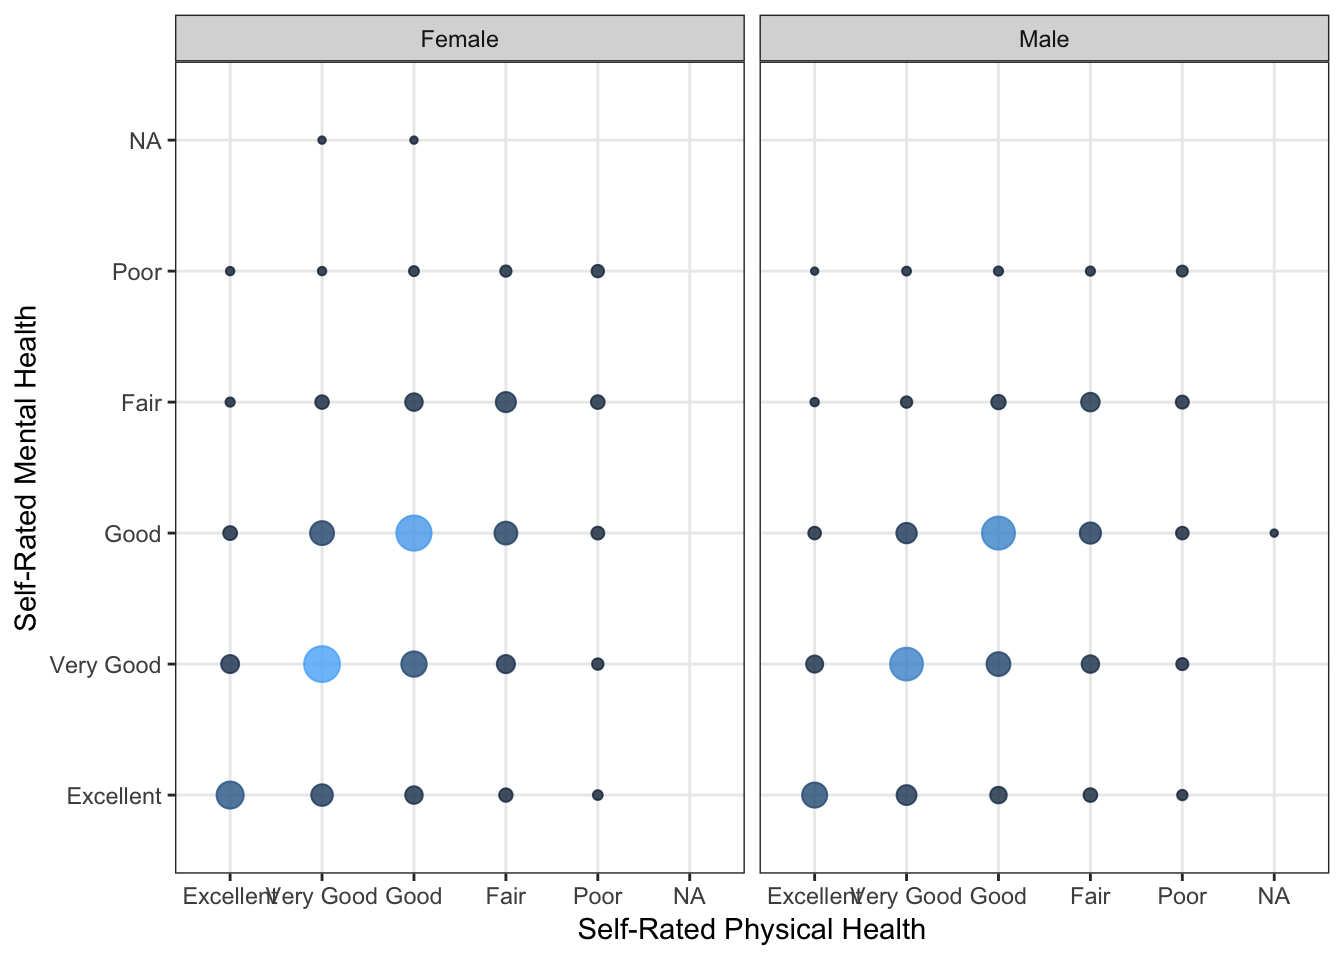
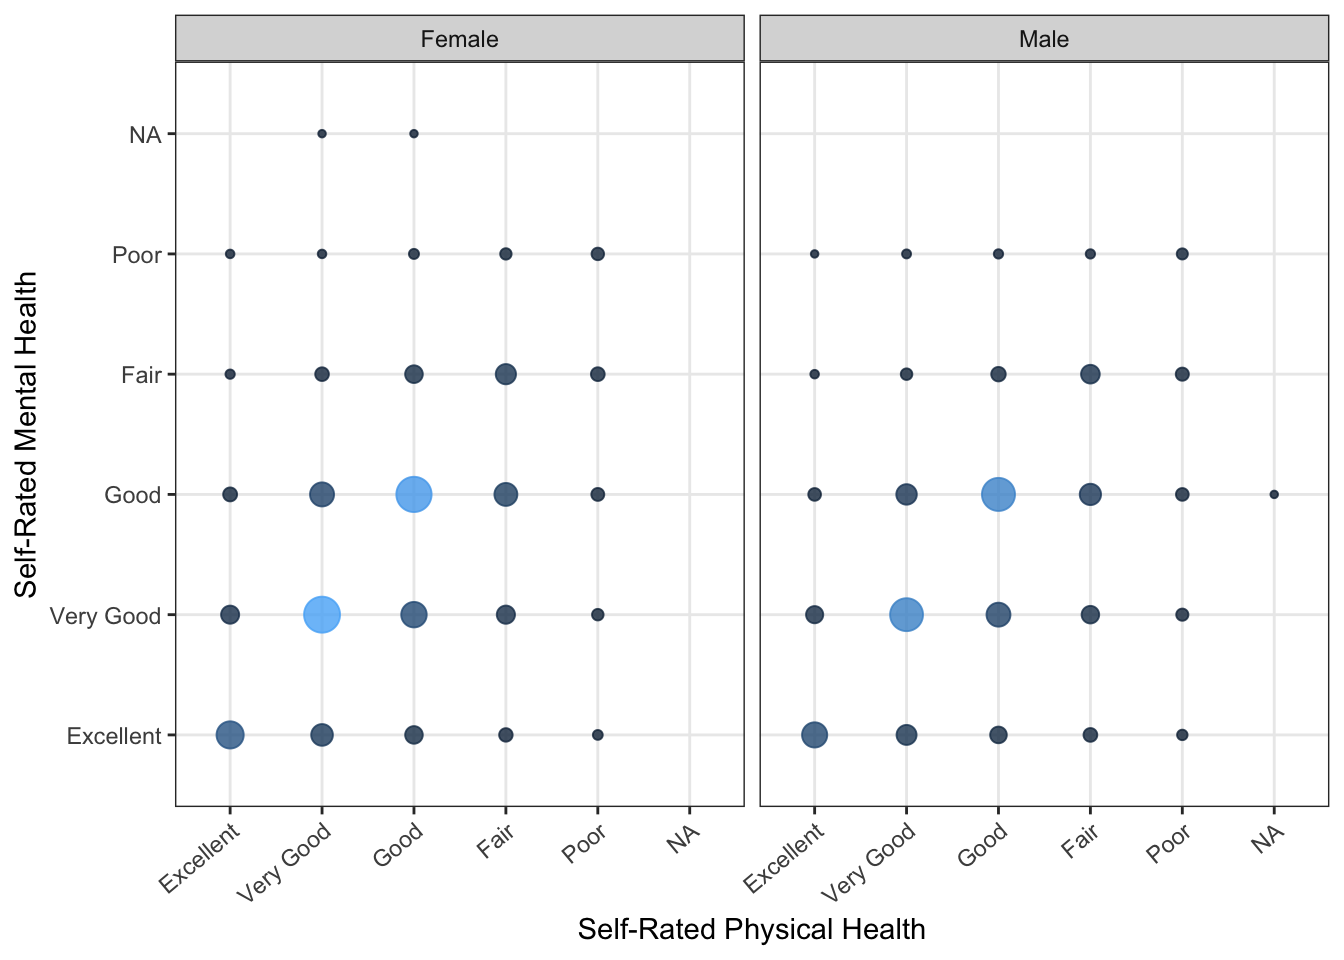
rotate axis

diff --git a/Final_Report.html b/Final_Report.html
@@ -9,9 +9,11 @@
 <meta name="generator" content="pandoc" />
 
 
+<meta name="author" content="Diana Ballesteros Gonzalez (uni: deg2163), Chris Crowe (uni: clc2229), Tanvi Jain (uni: tj2383)" />
 
+<meta name="date" content="2018-11-17" />
 
-<title></title>
+<title>Final Report</title>
 
 <script src="site_libs/jquery-1.11.3/jquery.min.js"></script>
 <meta name="viewport" content="width=device-width, initial-scale=1" />
@@ -22,6 +24,9 @@
 <script src="site_libs/navigation-1.1/tabsets.js"></script>
 <link href="site_libs/highlightjs-9.12.0/default.css" rel="stylesheet" />
 <script src="site_libs/highlightjs-9.12.0/highlight.js"></script>
+<link href="site_libs/font-awesome-5.0.13/css/fa-svg-with-js.css" rel="stylesheet" />
+<script src="site_libs/font-awesome-5.0.13/js/fontawesome-all.min.js"></script>
+<script src="site_libs/font-awesome-5.0.13/js/fa-v4-shims.min.js"></script>
 
 <style type="text/css">code{white-space: pre;}</style>
 <style type="text/css">
@@ -201,6 +206,12 @@ $(document).ready(function () {
      
   </a>
 </li>
+<li>
+  <a href="www.youtube.com">
+    <span class="fa fa-github fa-lg"></span>
+     
+  </a>
+</li>
       </ul>
     </div><!--/.nav-collapse -->
   </div><!--/.container -->
@@ -210,14 +221,13 @@ $(document).ready(function () {
 
 
 
+<h1 class="title toc-ignore">Final Report</h1>
+<h4 class="author"><em>Diana Ballesteros Gonzalez (uni: deg2163), Chris Crowe (uni: clc2229), Tanvi Jain (uni: tj2383)</em></h4>
+<h4 class="date"><em>11/17/2018</em></h4>
 
 </div>
 
 
-<div id="final-report" class="section level1">
-<h1>Final Report</h1>
-<p>Diana Ballesteros Gonzalez (uni: deg2163), Chris Crowe (uni: clc2229), Tanvi Jain (uni: tj2383) 11/17/2018</p>
-</div>
 <div id="analysis-of-a-longitudinal-study-on-aging-conducted-in-ireland" class="section level1">
 <h1>Analysis of a Longitudinal Study on Aging Conducted in Ireland</h1>
 <p>Motivation: This project aims to look at the effect of sociodemographic indicators on mental health among a cohort of Irish residents aged 50+ yrs.</p>
@@ -271,11 +281,9 @@ countplot %&gt;%
   ) +
   facet_grid(~sex) +
   theme_bw() +
-  theme(legend.position = &quot;none&quot;)</code></pre>
-<div class="figure">
-<img src="Final_Report_files/figure-markdown_github/countplot-1.png" />
-
-</div>
+  theme(legend.position = &quot;none&quot;,
+        axis.text.x = element_text(angle = 40, hjust = 1))</code></pre>
+<p><img src="Final_Report_files/figure-html/countplot-1.png" width="672" /></p>
 <pre class="r"><code>wave_1_data = wave_1_data %&gt;% 
   mutate(MHUCLA_LONELINESS_1 = MHUCLA_LONELINESS)
 
@@ -319,10 +327,7 @@ spaghetti %&gt;%
   geom_line() +
   theme_bw() +
   theme(legend.position = &quot;none&quot;)</code></pre>
-<div class="figure">
-<img src="Final_Report_files/figure-markdown_github/spaghetti-1.png" />
-
-</div>
+<p><img src="Final_Report_files/figure-html/spaghetti-1.png" width="672" /></p>
 <pre class="r"><code># ICD-10: bar graph of proportions of each ICD-10 code to determine which ICD-10 diagnosis accounts for the greatest burden of disease in our population. We can potentially facet by sex to see if the burden is different for males and females. 
 bar_graph = 
   wave_3_data %&gt;% 
@@ -371,10 +376,7 @@ bar_graph %&gt;%
   ) + 
   theme_bw() +
   theme(axis.text.x = element_text(angle = 90, size = 7))</code></pre>
-<div class="figure">
-<img src="Final_Report_files/figure-markdown_github/bar_graph-1.png" />
-
-</div>
+<p><img src="Final_Report_files/figure-html/bar_graph-1.png" width="672" /></p>
 <pre class="r"><code>### Baseline 0
 
 baseline_loneliness_0 = wave_1_data %&gt;% 
@@ -598,152 +600,99 @@ baseline_10 = baseline_loneliness_10 %&gt;%
     geom_smooth(se = FALSE) + ylim(0, 10)
 
 (baseline_0 + baseline_1 + baseline_2 + baseline_3 + baseline_4 + baseline_5 + baseline_6 + baseline_7 + baseline_8 + baseline_9)</code></pre>
-<pre><code>## `geom_smooth()` using method = &#39;loess&#39; and formula &#39;y ~ x&#39;
-
-## Warning in simpleLoess(y, x, w, span, degree = degree, parametric =
-## parametric, : pseudoinverse used at 0.99
-
-## Warning in simpleLoess(y, x, w, span, degree = degree, parametric =
-## parametric, : neighborhood radius 2.01
-
-## Warning in simpleLoess(y, x, w, span, degree = degree, parametric =
-## parametric, : reciprocal condition number 5.2454e-17
-
-## Warning in simpleLoess(y, x, w, span, degree = degree, parametric =
-## parametric, : There are other near singularities as well. 4.0401
-
-## `geom_smooth()` using method = &#39;loess&#39; and formula &#39;y ~ x&#39;
-
-## Warning in simpleLoess(y, x, w, span, degree = degree, parametric =
-## parametric, : pseudoinverse used at 0.99
-
-## Warning in simpleLoess(y, x, w, span, degree = degree, parametric =
-## parametric, : neighborhood radius 2.01
-
-## Warning in simpleLoess(y, x, w, span, degree = degree, parametric =
-## parametric, : reciprocal condition number 2.0661e-16
-
-## Warning in simpleLoess(y, x, w, span, degree = degree, parametric =
-## parametric, : There are other near singularities as well. 4.0401
-
-## `geom_smooth()` using method = &#39;loess&#39; and formula &#39;y ~ x&#39;
-
-## Warning in simpleLoess(y, x, w, span, degree = degree, parametric =
-## parametric, : pseudoinverse used at 0.99
-
-## Warning in simpleLoess(y, x, w, span, degree = degree, parametric =
-## parametric, : neighborhood radius 2.01
-
-## Warning in simpleLoess(y, x, w, span, degree = degree, parametric =
-## parametric, : reciprocal condition number 2.1055e-16
-
-## Warning in simpleLoess(y, x, w, span, degree = degree, parametric =
-## parametric, : There are other near singularities as well. 4.0401
-
-## `geom_smooth()` using method = &#39;loess&#39; and formula &#39;y ~ x&#39;
-
-## Warning in simpleLoess(y, x, w, span, degree = degree, parametric =
-## parametric, : pseudoinverse used at 0.99
-
-## Warning in simpleLoess(y, x, w, span, degree = degree, parametric =
-## parametric, : neighborhood radius 2.01
-
-## Warning in simpleLoess(y, x, w, span, degree = degree, parametric =
-## parametric, : reciprocal condition number 1.9961e-16
-
-## Warning in simpleLoess(y, x, w, span, degree = degree, parametric =
-## parametric, : There are other near singularities as well. 4.0401
-
-## `geom_smooth()` using method = &#39;loess&#39; and formula &#39;y ~ x&#39;
-
-## Warning in simpleLoess(y, x, w, span, degree = degree, parametric =
-## parametric, : pseudoinverse used at 0.99
-
-## Warning in simpleLoess(y, x, w, span, degree = degree, parametric =
-## parametric, : neighborhood radius 2.01
-
-## Warning in simpleLoess(y, x, w, span, degree = degree, parametric =
-## parametric, : reciprocal condition number 1.0184e-16
-
-## Warning in simpleLoess(y, x, w, span, degree = degree, parametric =
-## parametric, : There are other near singularities as well. 4.0401
-
-## `geom_smooth()` using method = &#39;loess&#39; and formula &#39;y ~ x&#39;
-
-## Warning in simpleLoess(y, x, w, span, degree = degree, parametric =
-## parametric, : pseudoinverse used at 0.99
-
-## Warning in simpleLoess(y, x, w, span, degree = degree, parametric =
-## parametric, : neighborhood radius 2.01
-
-## Warning in simpleLoess(y, x, w, span, degree = degree, parametric =
-## parametric, : reciprocal condition number 2.3477e-16
-
-## Warning in simpleLoess(y, x, w, span, degree = degree, parametric =
-## parametric, : There are other near singularities as well. 4.0401
-
-## `geom_smooth()` using method = &#39;loess&#39; and formula &#39;y ~ x&#39;
-
-## Warning in simpleLoess(y, x, w, span, degree = degree, parametric =
-## parametric, : pseudoinverse used at 0.99
-
-## Warning in simpleLoess(y, x, w, span, degree = degree, parametric =
-## parametric, : neighborhood radius 2.01
-
-## Warning in simpleLoess(y, x, w, span, degree = degree, parametric =
-## parametric, : reciprocal condition number 1.1404e-16
-
-## Warning in simpleLoess(y, x, w, span, degree = degree, parametric =
-## parametric, : There are other near singularities as well. 4.0401
-
-## `geom_smooth()` using method = &#39;loess&#39; and formula &#39;y ~ x&#39;
-
-## Warning in simpleLoess(y, x, w, span, degree = degree, parametric =
-## parametric, : pseudoinverse used at 0.99
-
-## Warning in simpleLoess(y, x, w, span, degree = degree, parametric =
-## parametric, : neighborhood radius 2.01
-
-## Warning in simpleLoess(y, x, w, span, degree = degree, parametric =
-## parametric, : reciprocal condition number 1.2425e-16
-
-## Warning in simpleLoess(y, x, w, span, degree = degree, parametric =
-## parametric, : There are other near singularities as well. 4.0401
-
-## `geom_smooth()` using method = &#39;loess&#39; and formula &#39;y ~ x&#39;
-
-## Warning in simpleLoess(y, x, w, span, degree = degree, parametric =
-## parametric, : pseudoinverse used at 0.99
-
-## Warning in simpleLoess(y, x, w, span, degree = degree, parametric =
-## parametric, : neighborhood radius 1.01
-
-## Warning in simpleLoess(y, x, w, span, degree = degree, parametric =
-## parametric, : reciprocal condition number 0
-
-## Warning in simpleLoess(y, x, w, span, degree = degree, parametric =
-## parametric, : There are other near singularities as well. 4.0401
-
-## `geom_smooth()` using method = &#39;loess&#39; and formula &#39;y ~ x&#39;
-
-## Warning in simpleLoess(y, x, w, span, degree = degree, parametric =
-## parametric, : span too small. fewer data values than degrees of freedom.
-
-## Warning in simpleLoess(y, x, w, span, degree = degree, parametric =
-## parametric, : pseudoinverse used at 0.99
-
-## Warning in simpleLoess(y, x, w, span, degree = degree, parametric =
-## parametric, : neighborhood radius 1.01
-
-## Warning in simpleLoess(y, x, w, span, degree = degree, parametric =
-## parametric, : reciprocal condition number 0
-
-## Warning in simpleLoess(y, x, w, span, degree = degree, parametric =
+<pre><code>## `geom_smooth()` using method = &#39;loess&#39; and formula &#39;y ~ x&#39;</code></pre>
+<pre><code>## Warning in simpleLoess(y, x, w, span, degree = degree, parametric =
+## parametric, : pseudoinverse used at 0.99</code></pre>
+<pre><code>## Warning in simpleLoess(y, x, w, span, degree = degree, parametric =
+## parametric, : neighborhood radius 2.01</code></pre>
+<pre><code>## Warning in simpleLoess(y, x, w, span, degree = degree, parametric =
+## parametric, : reciprocal condition number 5.2454e-17</code></pre>
+<pre><code>## Warning in simpleLoess(y, x, w, span, degree = degree, parametric =
 ## parametric, : There are other near singularities as well. 4.0401</code></pre>
-<div class="figure">
-<img src="Final_Report_files/figure-markdown_github/unnamed-chunk-1-1.png" />
-
-</div>
+<pre><code>## `geom_smooth()` using method = &#39;loess&#39; and formula &#39;y ~ x&#39;</code></pre>
+<pre><code>## Warning in simpleLoess(y, x, w, span, degree = degree, parametric =
+## parametric, : pseudoinverse used at 0.99</code></pre>
+<pre><code>## Warning in simpleLoess(y, x, w, span, degree = degree, parametric =
+## parametric, : neighborhood radius 2.01</code></pre>
+<pre><code>## Warning in simpleLoess(y, x, w, span, degree = degree, parametric =
+## parametric, : reciprocal condition number 2.0661e-16</code></pre>
+<pre><code>## Warning in simpleLoess(y, x, w, span, degree = degree, parametric =
+## parametric, : There are other near singularities as well. 4.0401</code></pre>
+<pre><code>## `geom_smooth()` using method = &#39;loess&#39; and formula &#39;y ~ x&#39;</code></pre>
+<pre><code>## Warning in simpleLoess(y, x, w, span, degree = degree, parametric =
+## parametric, : pseudoinverse used at 0.99</code></pre>
+<pre><code>## Warning in simpleLoess(y, x, w, span, degree = degree, parametric =
+## parametric, : neighborhood radius 2.01</code></pre>
+<pre><code>## Warning in simpleLoess(y, x, w, span, degree = degree, parametric =
+## parametric, : reciprocal condition number 2.1055e-16</code></pre>
+<pre><code>## Warning in simpleLoess(y, x, w, span, degree = degree, parametric =
+## parametric, : There are other near singularities as well. 4.0401</code></pre>
+<pre><code>## `geom_smooth()` using method = &#39;loess&#39; and formula &#39;y ~ x&#39;</code></pre>
+<pre><code>## Warning in simpleLoess(y, x, w, span, degree = degree, parametric =
+## parametric, : pseudoinverse used at 0.99</code></pre>
+<pre><code>## Warning in simpleLoess(y, x, w, span, degree = degree, parametric =
+## parametric, : neighborhood radius 2.01</code></pre>
+<pre><code>## Warning in simpleLoess(y, x, w, span, degree = degree, parametric =
+## parametric, : reciprocal condition number 1.9961e-16</code></pre>
+<pre><code>## Warning in simpleLoess(y, x, w, span, degree = degree, parametric =
+## parametric, : There are other near singularities as well. 4.0401</code></pre>
+<pre><code>## `geom_smooth()` using method = &#39;loess&#39; and formula &#39;y ~ x&#39;</code></pre>
+<pre><code>## Warning in simpleLoess(y, x, w, span, degree = degree, parametric =
+## parametric, : pseudoinverse used at 0.99</code></pre>
+<pre><code>## Warning in simpleLoess(y, x, w, span, degree = degree, parametric =
+## parametric, : neighborhood radius 2.01</code></pre>
+<pre><code>## Warning in simpleLoess(y, x, w, span, degree = degree, parametric =
+## parametric, : reciprocal condition number 1.0184e-16</code></pre>
+<pre><code>## Warning in simpleLoess(y, x, w, span, degree = degree, parametric =
+## parametric, : There are other near singularities as well. 4.0401</code></pre>
+<pre><code>## `geom_smooth()` using method = &#39;loess&#39; and formula &#39;y ~ x&#39;</code></pre>
+<pre><code>## Warning in simpleLoess(y, x, w, span, degree = degree, parametric =
+## parametric, : pseudoinverse used at 0.99</code></pre>
+<pre><code>## Warning in simpleLoess(y, x, w, span, degree = degree, parametric =
+## parametric, : neighborhood radius 2.01</code></pre>
+<pre><code>## Warning in simpleLoess(y, x, w, span, degree = degree, parametric =
+## parametric, : reciprocal condition number 2.3477e-16</code></pre>
+<pre><code>## Warning in simpleLoess(y, x, w, span, degree = degree, parametric =
+## parametric, : There are other near singularities as well. 4.0401</code></pre>
+<pre><code>## `geom_smooth()` using method = &#39;loess&#39; and formula &#39;y ~ x&#39;</code></pre>
+<pre><code>## Warning in simpleLoess(y, x, w, span, degree = degree, parametric =
+## parametric, : pseudoinverse used at 0.99</code></pre>
+<pre><code>## Warning in simpleLoess(y, x, w, span, degree = degree, parametric =
+## parametric, : neighborhood radius 2.01</code></pre>
+<pre><code>## Warning in simpleLoess(y, x, w, span, degree = degree, parametric =
+## parametric, : reciprocal condition number 1.1404e-16</code></pre>
+<pre><code>## Warning in simpleLoess(y, x, w, span, degree = degree, parametric =
+## parametric, : There are other near singularities as well. 4.0401</code></pre>
+<pre><code>## `geom_smooth()` using method = &#39;loess&#39; and formula &#39;y ~ x&#39;</code></pre>
+<pre><code>## Warning in simpleLoess(y, x, w, span, degree = degree, parametric =
+## parametric, : pseudoinverse used at 0.99</code></pre>
+<pre><code>## Warning in simpleLoess(y, x, w, span, degree = degree, parametric =
+## parametric, : neighborhood radius 2.01</code></pre>
+<pre><code>## Warning in simpleLoess(y, x, w, span, degree = degree, parametric =
+## parametric, : reciprocal condition number 1.2425e-16</code></pre>
+<pre><code>## Warning in simpleLoess(y, x, w, span, degree = degree, parametric =
+## parametric, : There are other near singularities as well. 4.0401</code></pre>
+<pre><code>## `geom_smooth()` using method = &#39;loess&#39; and formula &#39;y ~ x&#39;</code></pre>
+<pre><code>## Warning in simpleLoess(y, x, w, span, degree = degree, parametric =
+## parametric, : pseudoinverse used at 0.99</code></pre>
+<pre><code>## Warning in simpleLoess(y, x, w, span, degree = degree, parametric =
+## parametric, : neighborhood radius 1.01</code></pre>
+<pre><code>## Warning in simpleLoess(y, x, w, span, degree = degree, parametric =
+## parametric, : reciprocal condition number 0</code></pre>
+<pre><code>## Warning in simpleLoess(y, x, w, span, degree = degree, parametric =
+## parametric, : There are other near singularities as well. 4.0401</code></pre>
+<pre><code>## `geom_smooth()` using method = &#39;loess&#39; and formula &#39;y ~ x&#39;</code></pre>
+<pre><code>## Warning in simpleLoess(y, x, w, span, degree = degree, parametric =
+## parametric, : span too small. fewer data values than degrees of freedom.</code></pre>
+<pre><code>## Warning in simpleLoess(y, x, w, span, degree = degree, parametric =
+## parametric, : pseudoinverse used at 0.99</code></pre>
+<pre><code>## Warning in simpleLoess(y, x, w, span, degree = degree, parametric =
+## parametric, : neighborhood radius 1.01</code></pre>
+<pre><code>## Warning in simpleLoess(y, x, w, span, degree = degree, parametric =
+## parametric, : reciprocal condition number 0</code></pre>
+<pre><code>## Warning in simpleLoess(y, x, w, span, degree = degree, parametric =
+## parametric, : There are other near singularities as well. 4.0401</code></pre>
+<p><img src="Final_Report_files/figure-html/unnamed-chunk-1-1.png" width="672" /></p>
 <p>Discussion:</p>
 <p>Graph 1: We anticipated that those who felt they had good physical health would also have good mental health and vice versa. From Graph 1 Self-rated physical and mental health are correlated Most older adults in this population report having good or very good physical and mental health Same for males and females Graph 2: Of all the incident diseases, the top 4 are: Circulatory system diseases Eye diseases Nutritional/metabolic diseases Musculoskeletal system diseases There were no incident cases of: Congenital malformations Ear diseases Infectious diseases Perinatal conditions Skin conditions Graph 3:</p>
 </div>

diff --git a/about.html b/about.html
@@ -204,6 +204,12 @@ $(document).ready(function () {
      
   </a>
 </li>
+<li>
+  <a href="www.youtube.com">
+    <span class="fa fa-github fa-lg"></span>
+     
+  </a>
+</li>
       </ul>
     </div><!--/.nav-collapse -->
   </div><!--/.container -->

diff --git a/index.html b/index.html
@@ -204,6 +204,12 @@ $(document).ready(function () {
      
   </a>
 </li>
+<li>
+  <a href="www.youtube.com">
+    <span class="fa fa-github fa-lg"></span>
+     
+  </a>
+</li>
       </ul>
     </div><!--/.nav-collapse -->
   </div><!--/.container -->
